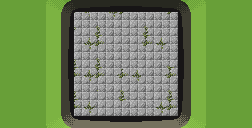
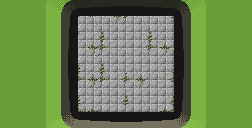
*

Changed region(s): [[0.2778, 0.0938, 0.7222, 0.9062]]

diff --git a/src/games/snake/mod.rs b/src/games/snake/mod.rs
@@ -10,19 +10,21 @@ use crate::{
   games::{CurrentGameState, GameType},
 };
 
-const ARENA_WIDTH: u32 = 13;
-const ARENA_HEIGHT: u32 = 13;
+const ARENA_WIDTH: u32 = 12;
+const ARENA_HEIGHT: u32 = 12;
 const ARENA_AREA: u32 = ARENA_WIDTH * ARENA_HEIGHT;
-const ARENA_CELL_SIZE: u32 = 7;
-const ARENA_CELL_GAP: u32 = 1;
-const ARENA_PIXEL_WIDTH: u32 = ARENA_WIDTH * ARENA_CELL_SIZE + (ARENA_WIDTH - 1) * ARENA_CELL_GAP;
+const ARENA_CELL_SIZE: u32 = 6;
+const ARENA_CELL_GAP: u32 = 2;
+const ARENA_CELL_PADDING: u32 = 1;
+const ARENA_PIXEL_WIDTH: u32 =
+  ARENA_WIDTH * ARENA_CELL_SIZE + (ARENA_WIDTH - 1) * ARENA_CELL_GAP + ARENA_CELL_PADDING * 2;
 const ARENA_PIXEL_HEIGHT: u32 =
-  ARENA_HEIGHT * ARENA_CELL_SIZE + (ARENA_HEIGHT - 1) * ARENA_CELL_GAP;
+  ARENA_HEIGHT * ARENA_CELL_SIZE + (ARENA_HEIGHT - 1) * ARENA_CELL_GAP + ARENA_CELL_PADDING * 2;
 
 const IMAGE_WIDTH: u32 = 252;
 const IMAGE_HEIGHT: u32 = 128;
 
-const STEP_TIME_SECONDS: f32 = 0.400;
+const STEP_TIME_SECONDS: f32 = 0.500;
 
 const START_SNAKE_HEAD_POSITION: GridPosition = GridPosition {
   x: ARENA_WIDTH / 2,
@@ -59,7 +61,7 @@ impl Plugin for SnakeGamePlugin {
         (
           input_accumulation_system.run_if(in_state(SnakeGameState::Playing)),
           snake_movement_system.run_if(in_state(SnakeGameState::Playing)),
-          update_snake_textures.run_if(in_state(SnakeGameState::Playing)),
+          update_snake_textures,
           snake_self_collision_system.run_if(in_state(SnakeGameState::Playing)),
           snake_food_collision_system.run_if(in_state(SnakeGameState::Playing)),
           food_spawning_system.run_if(in_state(SnakeGameState::Playing)),
@@ -197,6 +199,7 @@ struct SnakeHead {
 #[derive(Component, Debug)]
 struct SnakeSegment {
   follow_to: Option<Entity>,
+  direction: SnakeDirection,
 }
 
 impl Default for SnakeHead {
@@ -358,12 +361,6 @@ impl SnakeSkin {
   const BODY_END: usize = 2;
   const TURN_BODY: usize = 3;
   const TAIL: usize = 4;
-
-  fn new(texture_atlas_layout: Handle<TextureAtlasLayout>) -> Self {
-    SnakeSkin {
-      texture_atlas_layout,
-    }
-  }
 }
 
 #[derive(Resource, Default)]
@@ -398,7 +395,7 @@ fn setup(
   sound_assets.eat_blue = asset_server.load("games/snake/sounds/blue_food_pickup.wav");
 
   let snake_skins_layout =
-    TextureAtlasLayout::from_grid(UVec2::new(8, 7), 5, 1, Some(UVec2::splat(1)), None);
+    TextureAtlasLayout::from_grid(UVec2::new(8, 8), 5, 1, Some(UVec2::splat(1)), None);
   snake_skin.texture_atlas_layout = texture_atlas_layouts.add(snake_skins_layout);
 
   let (width, height) = spawn_background(&mut commands, snake_game_assets.background.clone());
@@ -438,8 +435,11 @@ fn start_game(
     START_SNAKE_HEAD_POSITION.opposite_to_direction(snake_head_direction),
   );
   for _ in 1..START_SNAKE_LENGTH {
-    let snake_segment_entity =
-      spawn_snake_body_segment(&mut commands, (last_segment.0, &last_segment.1));
+    let snake_segment_entity = spawn_snake_body_segment(
+      &mut commands,
+      (last_segment.0, &last_segment.1),
+      snake_head_direction,
+    );
 
     last_segment = (
       snake_segment_entity,
@@ -472,7 +472,10 @@ fn spawn_snake_head_segment(
     .spawn((
       Name::new("SnakeHead"),
       SnakeHead { direction },
-      SnakeSegment { follow_to: None },
+      SnakeSegment {
+        follow_to: None,
+        direction,
+      },
       GridPosition::clone(position),
       Transform {
         translation: transform_cell_to_translation(&position),
@@ -486,7 +489,11 @@ fn spawn_snake_head_segment(
     .id()
 }
 
-fn spawn_snake_body_segment(commands: &mut Commands, follow_to: (Entity, &GridPosition)) -> Entity {
+fn spawn_snake_body_segment(
+  commands: &mut Commands,
+  follow_to: (Entity, &GridPosition),
+  direction: SnakeDirection,
+) -> Entity {
   let (follow_to_entity, follow_to_position) = follow_to;
 
   commands
@@ -494,6 +501,7 @@ fn spawn_snake_body_segment(commands: &mut Commands, follow_to: (Entity, &GridPo
       Name::new("SnakeBody"),
       SnakeSegment {
         follow_to: Some(follow_to_entity),
+        direction,
       },
       GridPosition::clone(follow_to_position),
       Transform {
@@ -525,12 +533,19 @@ fn grow_snake_observer(
     .unwrap()
     .1;
 
+  let follow_to_direction = snake_segment_query
+    .get(follow_to_entity)
+    .unwrap()
+    .2
+    .direction;
+
   for _ in 0..grow_event.amount {
     follow_to_entity = commands
       .spawn((
         Name::new("SnakeBody"),
         SnakeSegment {
           follow_to: Some(follow_to_entity),
+          direction: follow_to_direction,
         },
         GridPosition::clone(follow_to_position),
         Transform {
@@ -662,7 +677,7 @@ fn spawn_food(commands: &mut Commands, food: Food, position: GridPosition) -> En
 }
 
 fn update_snake_textures(
-  mut snake_head_segment: Single<
+  snake_head_segment: Single<
     (
       Entity,
       &mut Sprite,
@@ -710,24 +725,53 @@ fn update_snake_textures(
     };
   }
 
-  fn direction_to_rotation(dir: IVec2) -> f32 {
-    match dir {
-      IVec2 { x: -1, y: 0 } => 0.0,
-      IVec2 { x: 1, y: 0 } => PI,
-      IVec2 { x: 0, y: -1 } => FRAC_PI_2,
-      IVec2 { x: 0, y: 1 } => 3.0 * FRAC_PI_2,
-      _ => 0.0,
-    }
-  }
-
-  fn head_direction_rotation(dir: SnakeDirection) -> f32 {
+  fn direction_to_rotation(dir: SnakeDirection) -> f32 {
     match dir {
       SnakeDirection::Left => 0.0,
       SnakeDirection::Right => PI,
       SnakeDirection::Down => FRAC_PI_2,
-      SnakeDirection::Up => 3.0 * FRAC_PI_2,
+      SnakeDirection::Up => -FRAC_PI_2,
     }
   }
+
+  let get_body_sprite_data =
+    |prev_dir: SnakeDirection, curr_dir: SnakeDirection, is_start: bool| -> (usize, f32) {
+      use SnakeDirection::*;
+
+      let body_skin = if is_start {
+        SnakeSkin::BODY_START
+      } else {
+        SnakeSkin::BODY_END
+      };
+
+      let result = match (prev_dir, curr_dir) {
+        // Прямые сегменты
+        (Up, Up) => (body_skin, FRAC_PI_2),
+        (Down, Down) => (body_skin, FRAC_PI_2),
+        (Left, Left) => (body_skin, 0.0),
+        (Right, Right) => (body_skin, 0.0),
+
+        // Повороты
+        (Down, Left) => (SnakeSkin::TURN_BODY, 0.0),
+        (Down, Right) => (SnakeSkin::TURN_BODY, -FRAC_PI_2),
+        (Up, Left) => (SnakeSkin::TURN_BODY, FRAC_PI_2),
+        (Up, Right) => (SnakeSkin::TURN_BODY, PI),
+        (Left, Up) => (SnakeSkin::TURN_BODY, -FRAC_PI_2),
+        (Left, Down) => (SnakeSkin::TURN_BODY, PI),
+        (Right, Up) => (SnakeSkin::TURN_BODY, 0.0),
+        (Right, Down) => (SnakeSkin::TURN_BODY, FRAC_PI_2),
+
+        _ => (body_skin, 0.0), // заглушка
+      };
+
+      // if result.0 == SnakeSkin::TURN_BODY {
+      //   *is_start = true;
+      // } else {
+      //   *is_start = !*is_start;
+      // }
+
+      result
+    };
 
   // --- Обновляем голову ---
   let (head_entity, mut head_sprite, mut head_transform, head_pos, head_segment) =
@@ -741,68 +785,51 @@ fn update_snake_textures(
   );
   set_rotation(
     &mut head_transform,
-    head_direction_rotation(head_segment.direction),
+    direction_to_rotation(head_segment.direction),
   );
 
   // --- Создаем список сегментов с их соседями ---
-  let mut segments: Vec<(Entity, GridPosition, Option<Entity>)> =
-    vec![(head_entity, head_pos.clone(), None)];
+  let mut segments: Vec<(Entity, GridPosition, SnakeDirection, Option<Entity>)> =
+    vec![(head_entity, head_pos.clone(), head_segment.direction, None)];
   segments.extend(
     snake_body_segments
       .iter()
-      .map(|(entity, _sprite, _transform, pos, seg)| (entity, pos.clone(), seg.follow_to)),
+      .map(|(entity, _sprite, _transform, pos, seg)| {
+        (entity, pos.clone(), seg.direction, seg.follow_to)
+      }),
   );
 
   let mut segments_with_neighbors = Vec::with_capacity(segments.len());
   for i in 0..segments.len() {
-    let (entity, position, follow_to) = &segments[i];
+    let (entity, position, direction, follow_to) = &segments[i];
     let followed_by = segments.get(i + 1).map(|s| s.0);
-    segments_with_neighbors.push((*entity, position.clone(), *follow_to, followed_by));
+    segments_with_neighbors.push((
+      *entity,
+      position.clone(),
+      direction,
+      *follow_to,
+      followed_by,
+    ));
   }
 
   // --- Обновляем тело ---
-  let mut is_body_start = true;
+  let mut is_body_start = (head_pos.x + head_pos.y) % 2 == 0;
   for i in 1..segments_with_neighbors.len() - 1 {
-    let (prev_pos, next_pos) = (
-      &segments_with_neighbors[i - 1].1,
-      &segments_with_neighbors[i + 1].1,
-    );
-    let dir_prev = prev_pos - &segments_with_neighbors[i].1;
-    let dir_next = next_pos - &segments_with_neighbors[i].1;
-
-    let (entity, mut sprite, mut transform) = {
-      let mut seg = snake_body_segments
+    let (_, mut sprite, mut transform) = {
+      let seg = snake_body_segments
         .get_mut(segments_with_neighbors[i].0)
         .unwrap();
       (segments_with_neighbors[i].0, seg.1, seg.2)
     };
 
     // Определяем тип сегмента
-    let sprite_index = if dir_prev.x != 0 && dir_next.x != 0 || dir_prev.y != 0 && dir_next.y != 0 {
-      if dir_prev.x != 0 {
-        SnakeSkin::BODY_START
-      } else {
-        SnakeSkin::BODY_START
-      }
-    } else {
-      SnakeSkin::TURN_BODY
-    };
+    let (sprite_index, sprite_rotation) = get_body_sprite_data(
+      *segments_with_neighbors[i].2,
+      *segments_with_neighbors[i - 1].2,
+      is_body_start,
+    );
 
-    let rotation = if dir_prev.x != 0 && dir_next.x != 0 {
-      0.0
-    } else if dir_prev.y != 0 && dir_next.y != 0 {
-      FRAC_PI_2
-    } else if (dir_prev.x > 0 && dir_next.y > 0) || (dir_prev.y > 0 && dir_next.x > 0) {
-      PI
-    } else if (dir_prev.x > 0 && dir_next.y < 0) || (dir_prev.y < 0 && dir_next.x > 0) {
-      FRAC_PI_2
-    } else if (dir_prev.x < 0 && dir_next.y < 0) || (dir_prev.y < 0 && dir_next.x < 0) {
-      0.0
-    } else if (dir_prev.x < 0 && dir_next.y > 0) || (dir_prev.y > 0 && dir_next.x < 0) {
-      -FRAC_PI_2
-    } else {
-      0.0
-    };
+    is_body_start = !is_body_start;
 
     set_sprite(
       &mut sprite,
@@ -810,18 +837,10 @@ fn update_snake_textures(
       &snake_skin.texture_atlas_layout,
       sprite_index,
     );
-    set_rotation(&mut transform, rotation);
-
-    is_body_start = !is_body_start;
+    set_rotation(&mut transform, sprite_rotation);
   }
 
   // --- Обновляем хвост ---
-  let last_body = &segments_with_neighbors[segments_with_neighbors.len() - 2];
-  let tail_dir = &last_body.1
-    - &segments_with_neighbors
-      .last()
-      .unwrap()
-      .1;
   let tail = segments_with_neighbors
     .last_mut()
     .unwrap();
@@ -835,7 +854,8 @@ fn update_snake_textures(
     &snake_skin.texture_atlas_layout,
     SnakeSkin::TAIL,
   );
-  set_rotation(&mut tail_seg.2, direction_to_rotation(tail_dir));
+  let last_body = &segments_with_neighbors[segments_with_neighbors.len() - 2];
+  set_rotation(&mut tail_seg.2, direction_to_rotation(*last_body.2));
 }
 
 fn input_accumulation_system(
@@ -899,10 +919,17 @@ fn snake_movement_system(
 
   let mut before_move_segment_positions = snake_segment_query
     .iter()
-    .map(|segment| (segment.0, segment.2.clone()))
-    .collect::<Vec<(Entity, GridPosition)>>();
+    .map(|segment| (segment.0, segment.2.clone(), segment.3.direction))
+    .collect::<Vec<(Entity, GridPosition, SnakeDirection)>>();
 
-  before_move_segment_positions.insert(0, (snake_head_entity, snake_head_position.clone()));
+  before_move_segment_positions.insert(
+    0,
+    (
+      snake_head_entity,
+      snake_head_position.clone(),
+      snake_head.direction,
+    ),
+  );
 
   let direction = direction_queue
     .pop()
@@ -929,14 +956,18 @@ fn snake_movement_system(
 
   snake_head_transform.translation = transform_cell_to_translation(&snake_head_position);
 
-  for (_, mut segment_transform, mut segment_position, segment) in snake_segment_query.iter_mut() {
+  for (_, mut segment_transform, mut segment_position, mut segment) in
+    snake_segment_query.iter_mut()
+  {
     if let Some(follow_to_segment_entity) = segment.follow_to {
-      let (_, follow_to_segment_position) = before_move_segment_positions
-        .iter()
-        .find(|(entity, _)| entity == &follow_to_segment_entity)
-        .unwrap();
+      let (_, follow_to_segment_position, follow_to_segment_direction) =
+        before_move_segment_positions
+          .iter()
+          .find(|(entity, _, _)| entity == &follow_to_segment_entity)
+          .unwrap();
 
       *segment_position = GridPosition::clone(follow_to_segment_position);
+      segment.direction = *follow_to_segment_direction;
 
       segment_transform.translation = transform_cell_to_translation(&segment_position);
     }
@@ -1216,11 +1247,13 @@ fn wait_for_input_for_restart_system(
 }
 
 fn transform_cell_to_translation(GridPosition { x, y }: &GridPosition) -> Vec3 {
-  const OFFSET_X: f32 = -(ARENA_PIXEL_WIDTH as f32) / 2.0;
-  const OFFSET_Y: f32 = -(ARENA_PIXEL_HEIGHT as f32) / 2.0;
+  const CENTER_X: f32 = -(ARENA_PIXEL_WIDTH as f32) / 2.0;
+  const CENTER_Y: f32 = -(ARENA_PIXEL_HEIGHT as f32) / 2.0;
 
-  let pixel_x = OFFSET_X + (x * (ARENA_CELL_SIZE + ARENA_CELL_GAP)) as f32;
-  let pixel_y = OFFSET_Y + (y * (ARENA_CELL_SIZE + ARENA_CELL_GAP)) as f32;
+  let pixel_x =
+    CENTER_X + (x * (ARENA_CELL_SIZE + ARENA_CELL_GAP)) as f32 + ARENA_CELL_PADDING as f32;
+  let pixel_y =
+    CENTER_Y + (y * (ARENA_CELL_SIZE + ARENA_CELL_GAP)) as f32 + ARENA_CELL_PADDING as f32;
 
   Vec3::new(
     pixel_x + (ARENA_CELL_SIZE as f32) / 2.0,
